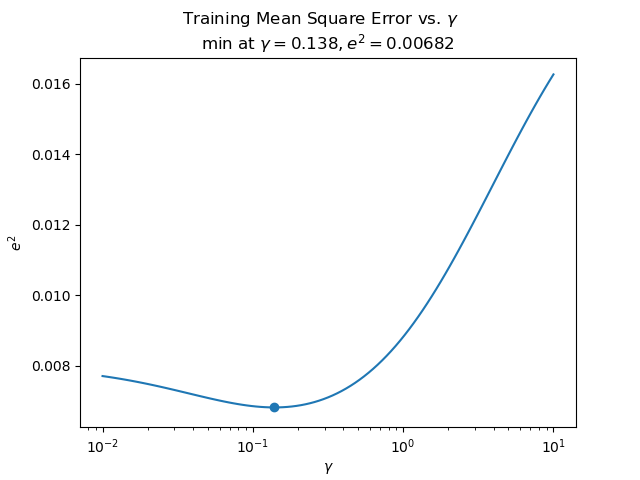
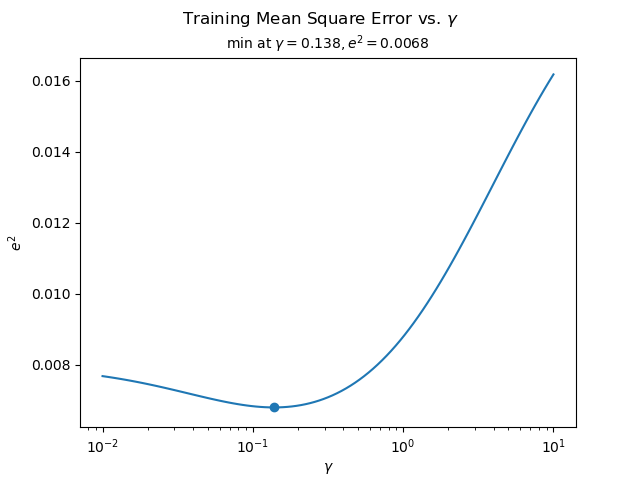
Smaller fontsize for the subtitle

diff --git a/ridgereg.py b/ridgereg.py
@@ -107,7 +107,7 @@ plt.ylabel("$e^2$")
 plt.xscale(value="log")
 #plt.legend()
 plt.suptitle("Training Mean Square Error vs. $\gamma$")
-plt.title("min at $\gamma=%.3f, e^2=%.3g$"%(gamma,lowe))
+plt.title("min at $\gamma=%.3f, e^2=%.3g$"%(gamma,lowe),fontsize=10)
 plt.show()
 
 time = list(range(0,len(yhat)))
@@ -116,5 +116,5 @@ plt.plot(time,yhat,label="$\hat{y}$")
 plt.xlabel("Time")
 plt.legend()
 plt.suptitle("Real vs. Predicted")
-plt.title("$\gamma=%.3f,e^2=%.3g$"%(gamma,e2))
+plt.title("$\gamma=%.3f,e^2=%.3g$"%(gamma,e2),fontsize=10)
 plt.show()
